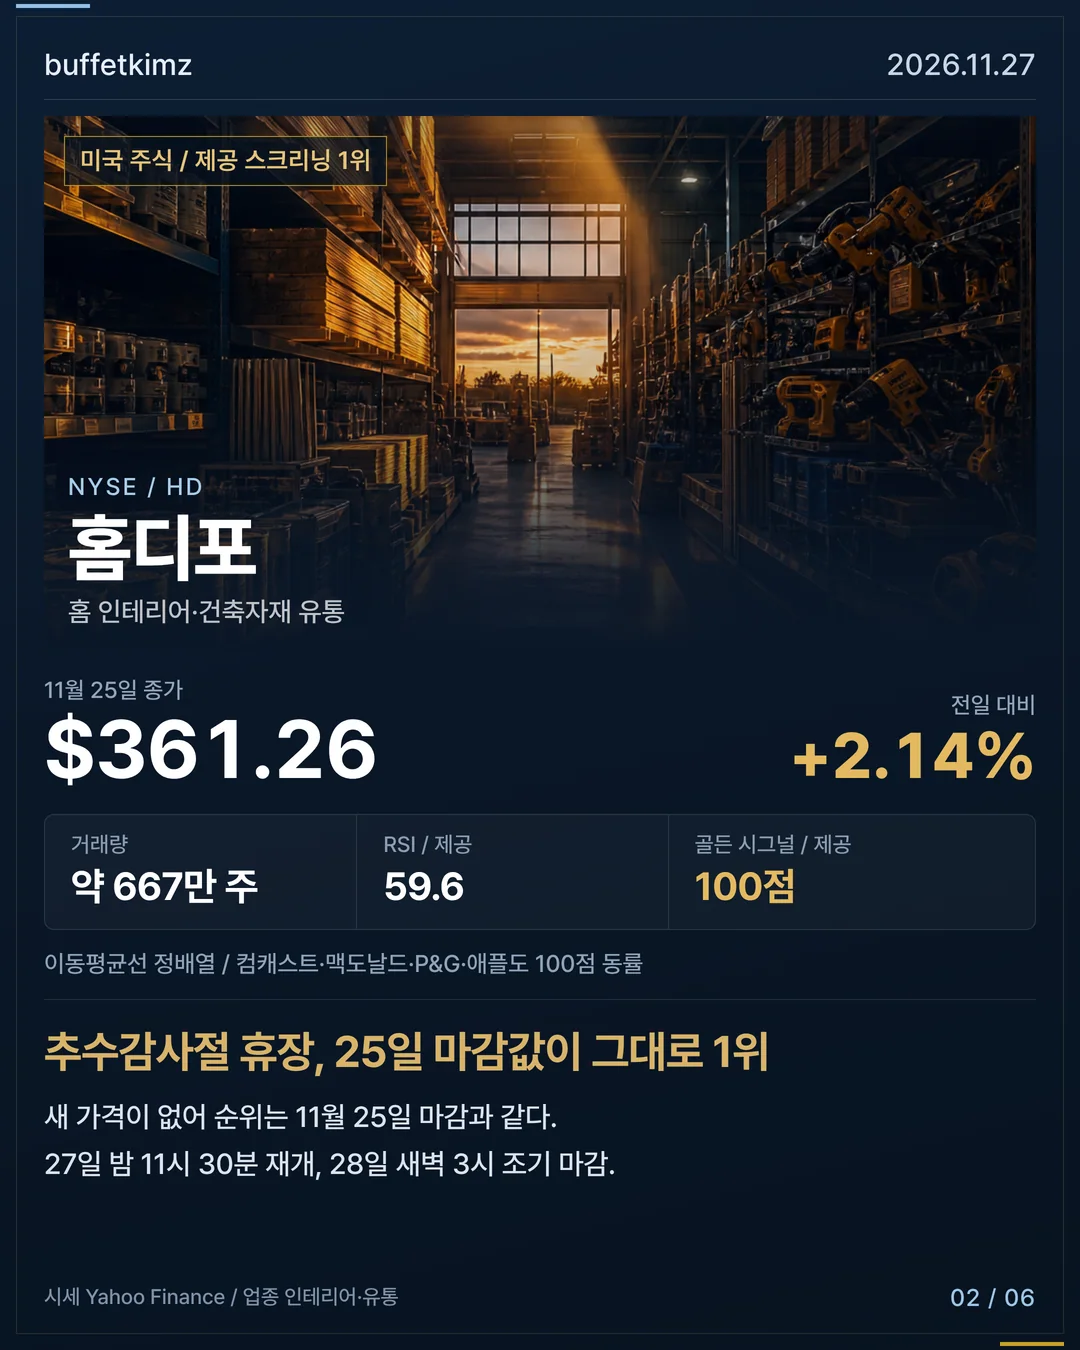
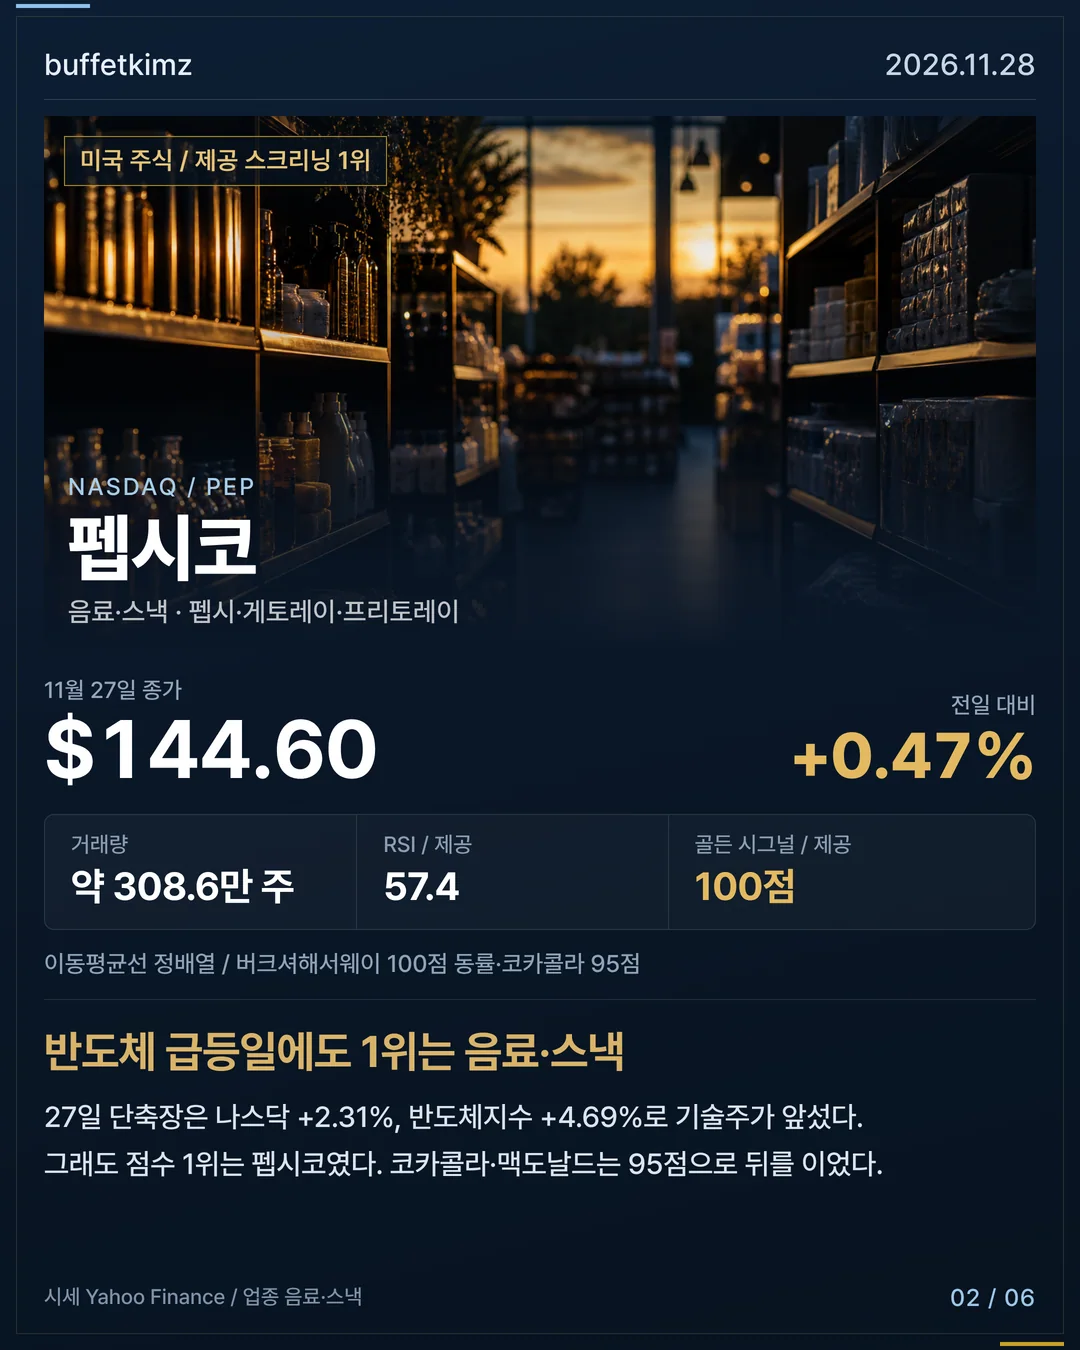
feat(gallery): 4대 시장 퀀트 스크리닝 카드뉴스 갱신 (11/28)

diff --git a/src/data/gallery.ts b/src/data/gallery.ts
@@ -106,23 +106,23 @@ export const galleryItems: GalleryItem[] = [
   /* quant-screening-daily:BEGIN — render_quant_cards.mjs --gallery가 매일 이 블록만 새로 씁니다 */
   {
     id: "quant-screening-daily",
-    title: "4대 시장 퀀트 스크리닝 (11/27)",
+    title: "4대 시장 퀀트 스크리닝 (11/28)",
     tagline: "골든 시그널로 본 4종목",
     summary:
-      "미국은 추수감사절 휴장으로 11월 25일 마감값이 그대로이고, 국내는 한은이 기준금리를 3.25%로 올린 다음 날입니다. 08:20 퀀트 스크리닝에서 200종목 중 68개가 골든 시그널이었고, 미국 주식 홈디포·미국 ETF TLT·국내 주식 카카오뱅크·국내 ETF TIGER 미국채30년스트립이 시장별 1위입니다. 방어 성격의 은행·장기 국채가 앞서고 반도체·성장주는 뒤처진 하루였습니다.",
+      "11월 27일 미국 단축장은 AI·반도체 반발 매수로 급등했고, 국내는 코스피 +4.34%·코스닥 +8.13%로 되돌렸습니다. 08:20 퀀트 스크리닝에서 200종목 중 134개가 골든 시그널이었고, 미국 주식 펩시코·미국 ETF XLP·국내 주식 셀트리온·국내 ETF KBSTAR 국고채30년이 시장별 1위입니다. 28일은 토요일 휴장이고 다음 개장은 30일(월)입니다.",
     category: "cardnews",
-    createdAt: "2026-11-27",
+    createdAt: "2026-11-28",
     tags: ["퀀트 스크리닝", "골든 시그널", "미국 주식", "국내 주식", "ETF"],
     slides: [
-      { src: "/gallery/quant-screening-daily/01.webp", width: 1080, height: 1350, alt: "표지 — 4대 시장 퀀트 스크리닝, 미국 주식 홈디포·미국 ETF TLT·국내 주식 카카오뱅크·국내 ETF 미국채30년", caption: "표지 — 골든 시그널로 본 4종목" },
-      { src: "/gallery/quant-screening-daily/02.webp", width: 1080, height: 1350, alt: "미국 주식 / 제공 스크리닝 1위 — 홈디포 $361.26 (+2.14%), 거래량 약 667만 주, RSI / 제공 59.6, 골든 시그널 / 제공 100점", caption: "미국 주식 1위 — 홈디포 $361.26 (+2.14%)" },
-      { src: "/gallery/quant-screening-daily/03.webp", width: 1080, height: 1350, alt: "미국 ETF / 제공 스크리닝 1위 — 아이셰어즈 20년+ 국채 $82.24 (+0.92%), 거래량 약 4,888만 주, RSI / 제공 52.6, 골든 시그널 / 제공 100점", caption: "미국 ETF 1위 — 아이셰어즈 20년+ 국채 $82.24 (+0.92%)" },
-      { src: "/gallery/quant-screening-daily/04.webp", width: 1080, height: 1350, alt: "국내 주식 / 제공 스크리닝 1위 — 카카오뱅크 22,100원 (+0.45%), 거래량 약 66.9만 주, RSI / 제공 63.1, 골든 시그널 / 제공 100점", caption: "국내 주식 1위 — 카카오뱅크 22,100원 (+0.45%)" },
-      { src: "/gallery/quant-screening-daily/05.webp", width: 1080, height: 1350, alt: "국내 ETF / 제공 스크리닝 1위 — TIGER 미국채30년 34,755원 (+0.64%), 거래량 약 10.9만 주, RSI / 제공 49.3, 골든 시그널 / 제공 100점", caption: "국내 ETF 1위 — TIGER 미국채30년 34,755원 (+0.64%)" },
-      { src: "/gallery/quant-screening-daily/06.webp", width: 1080, height: 1350, alt: "개장 전, 세 가지 체크포인트 — 미국장 S&P500 7,182.73 (-0.25%) / 다우 +0.33%, 개장 전 시그널 상장사 배당 30조7,000억 원 지급, 환율·제도 역외 원/달러 1,343.3원 (+0.6원)", caption: "마무리 — 개장 전 체크포인트 3" },
+      { src: "/gallery/quant-screening-daily/01.webp", width: 1080, height: 1350, alt: "표지 — 4대 시장 퀀트 스크리닝, 미국 주식 펩시코·미국 ETF XLP·국내 주식 셀트리온·국내 ETF 국고채30년", caption: "표지 — 골든 시그널로 본 4종목" },
+      { src: "/gallery/quant-screening-daily/02.webp", width: 1080, height: 1350, alt: "미국 주식 / 제공 스크리닝 1위 — 펩시코 $144.60 (+0.47%), 거래량 약 308.6만 주, RSI / 제공 57.4, 골든 시그널 / 제공 100점", caption: "미국 주식 1위 — 펩시코 $144.60 (+0.47%)" },
+      { src: "/gallery/quant-screening-daily/03.webp", width: 1080, height: 1350, alt: "미국 ETF / 제공 스크리닝 1위 — 미국 필수소비재 섹터 $92.68 (+0.41%), 거래량 약 1,221만 주, RSI / 제공 64.4, 골든 시그널 / 제공 100점", caption: "미국 ETF 1위 — 미국 필수소비재 섹터 $92.68 (+0.41%)" },
+      { src: "/gallery/quant-screening-daily/04.webp", width: 1080, height: 1350, alt: "국내 주식 / 제공 스크리닝 1위 — 셀트리온 221,000원 (+2.55%), 거래량 약 67.0만 주, RSI / 제공 58.1, 골든 시그널 / 제공 100점", caption: "국내 주식 1위 — 셀트리온 221,000원 (+2.55%)" },
+      { src: "/gallery/quant-screening-daily/05.webp", width: 1080, height: 1350, alt: "국내 ETF / 제공 스크리닝 1위 — KBSTAR 국고채30년 59,155원 (+0.38%), 거래량 약 6.8만 주, RSI / 제공 63.5, 골든 시그널 / 제공 100점", caption: "국내 ETF 1위 — KBSTAR 국고채30년 59,155원 (+0.38%)" },
+      { src: "/gallery/quant-screening-daily/06.webp", width: 1080, height: 1350, alt: "주말 정리, 세 가지 체크포인트 — 미국장 S&P500 7,297.49 (+1.60%) / 나스닥 +2.31%, 국내 마감 코스피 4,915.68 (+4.34%) / 코스닥 708.99 (+8.13%), 환율·일정 원/달러 1,333.0원 (-9.7원) / 달러지수 104.01", caption: "마무리 — 개장 전 체크포인트 3" },
     ],
     basis:
-      "기준 2026. 11. 27 08:20 · 시세 Yahoo Finance·KRX / 지수 S&P·Nasdaq / 환율 08:20 기준 · 투자 권유가 아닌 기록입니다",
+      "기준 2026. 11. 28 08:20 · 시세 Yahoo Finance·KRX / 지수 S&P·Nasdaq / 환율 08:20 기준 · 투자 권유가 아닌 기록입니다",
     related: [{ label: "오늘의 시장 확인 — 데일리 브리프", href: "/board/" }],
   },
   /* quant-screening-daily:END */
